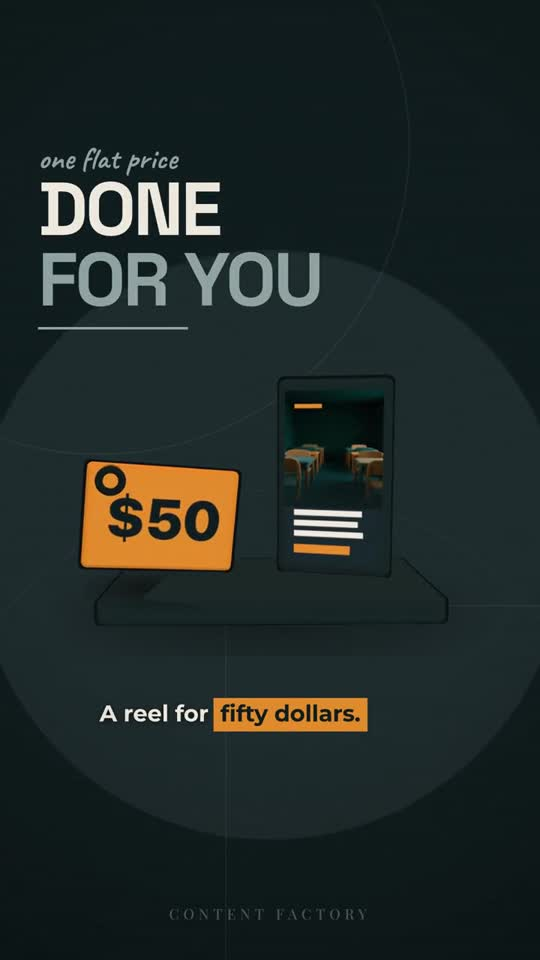
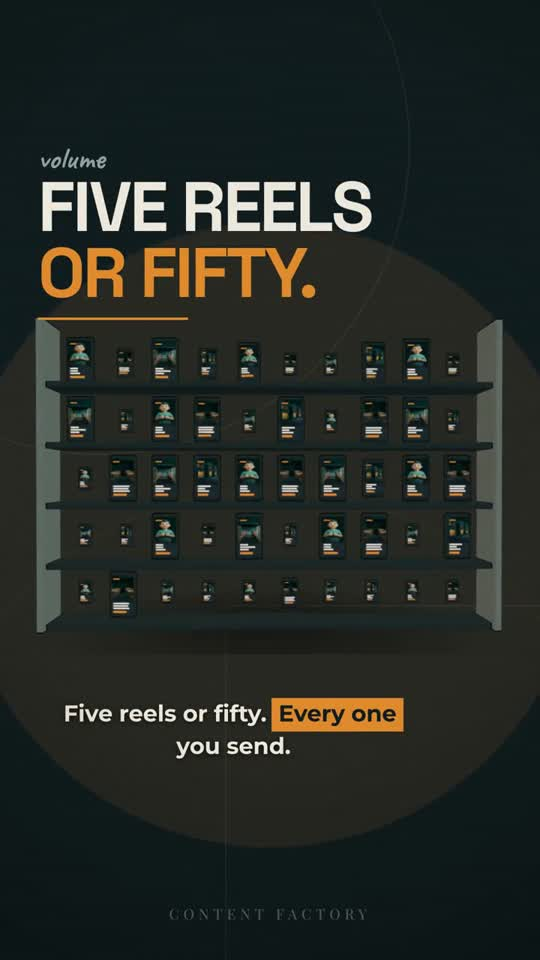
Lead with craft, drop the price frame from the poster

diff --git a/index.html b/index.html
@@ -71,7 +71,7 @@
   <div class="kicker">Content Factory</div>
   <h1>Ad creative without a camera.</h1>
   <p class="lede">Three reels below. No shoot, no studio, no actors, no stock footage.
-  Every frame was built from a script and rendered in house — which is why the
+  Every frame was built from a script and rendered in house, which is why the
   <b>second version of a video costs almost nothing to make</b>.</p>
 </header>
 
@@ -79,17 +79,9 @@
   <h2>The work</h2>
   <div class="reels">
     <figure>
-      <video src="reel1.mp4" poster="poster1.jpg" controls playsinline preload="none"></video>
-      <figcaption>
-        <div class="rn">Reel 01 · 0:27</div>
-        <div class="rt">Three materials, one frame</div>
-        <div class="rd">Layout carries the words, 3D carries the object, generated imagery carries the room.</div>
-      </figcaption>
-    </figure>
-    <figure>
       <video src="reel2.mp4" poster="poster2.jpg" controls playsinline preload="none"></video>
       <figcaption>
-        <div class="rn">Reel 02 · 0:32</div>
+        <div class="rn">Reel 01 &middot; 0:32</div>
         <div class="rt">No cuts, only zooms</div>
         <div class="rd">Scenes stack on each other. The camera pushes through instead of cutting.</div>
       </figcaption>
@@ -97,9 +89,17 @@
     <figure>
       <video src="reel3.mp4" poster="poster3.jpg" controls playsinline preload="none"></video>
       <figcaption>
-        <div class="rn">Reel 03 · 0:33</div>
+        <div class="rn">Reel 02 &middot; 0:33</div>
         <div class="rt">One canvas, many rooms</div>
         <div class="rd">A single wide scene. The camera walks it, and the walk does the editing.</div>
+      </figcaption>
+    </figure>
+    <figure>
+      <video src="reel1.mp4" poster="poster1.jpg" controls playsinline preload="none"></video>
+      <figcaption>
+        <div class="rn">Reel 03 &middot; 0:27</div>
+        <div class="rt">Three materials, one frame</div>
+        <div class="rd">Layout carries the words, 3D carries the object, generated imagery carries the room.</div>
       </figcaption>
     </figure>
   </div>
@@ -109,7 +109,7 @@
   <h2>Why the economics are different</h2>
   <div class="facts">
     <div class="fact"><div class="fv">25 / month</div><div class="fl">Videos a studio quotes 3–5 for, at a flat monthly rate.</div></div>
-    <div class="fact"><div class="fv">Same day</div><div class="fl">Price changed, offer changed, dates changed — edit the line, re-render tonight.</div></div>
+    <div class="fact"><div class="fv">Same day</div><div class="fl">Price changed, offer changed, dates changed, so edit the line and re-render tonight.</div></div>
     <div class="fact"><div class="fv">Zero reshoots</div><div class="fl">Nothing was filmed, so nothing has to be filmed again.</div></div>
   </div>
 </section>
@@ -117,7 +117,7 @@
 <section>
   <h2>What that buys you</h2>
   <ul>
-    <li><b>Volume is the point, not the bonus.</b> Creative testing dies at 3 videos a month. At 25 you find the winner instead of guessing at it.</li>
+    <li><b>Volume is the product.</b> Creative testing dies at 3 videos a month. At 25 you find the winner instead of guessing at it.</li>
     <li><b>Losing variants still ship.</b> A creative that lost the test is still a post, a story, a nurture email. It is not a write-off.</li>
     <li><b>The floor is above zero.</b> If the ads underperform, you still hold 25 finished videos, the offers they tested, and a teardown of what your competitors are running.</li>
   </ul>
